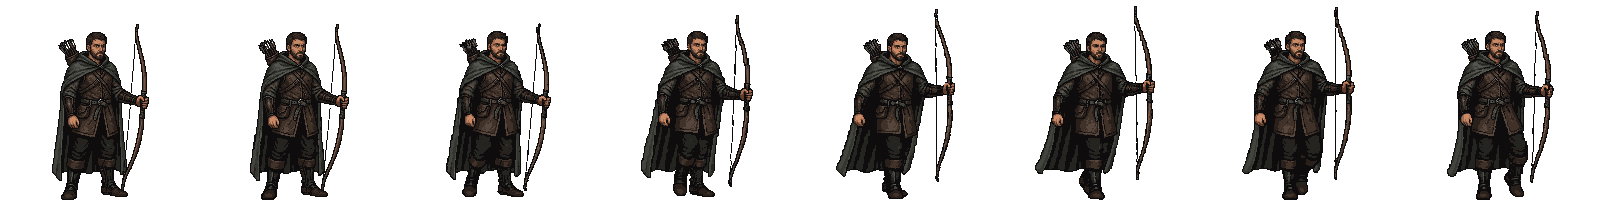
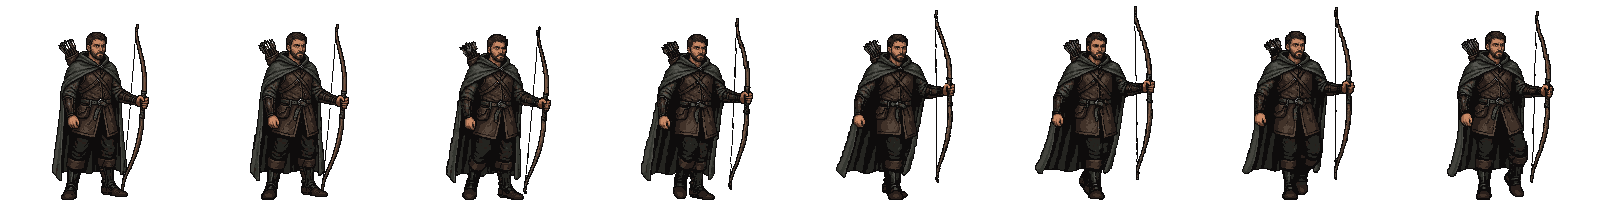
Campeão da invasão limitado a 2× o tamanho normal; pés do Cavaleiro e do Arqueiro assentados no chão em todos os quadros
Claude-Session: https://claude.ai/code/session_01VP3NvU6FBQmiNdnasRkJir

diff --git a/src/monsters.js b/src/monsters.js
@@ -1,3 +1,4 @@
+const CHAMPION_SCALE = Math.min(2.5, 2.0);   // limite pedido: 2,5× o tamanho original
 // Monstros: criação, caminho até o herói (BFS), passos, ataques, dano e morte.
 // (métodos da DungeonScene, separados por assunto)
 Object.assign(DungeonScene.prototype, {
@@ -57,8 +58,10 @@ Object.assign(DungeonScene.prototype, {
       if (i === 0) {
         // campeão da horda: maior, avermelhado, bem mais forte, vale muito mais xp
         m.champion = true; m.hp *= 4; m.maxHp = m.hp; m.dmg *= 1.6;
-        m.spr.setScale((m.data.scale || 1) * 2.7).setTint(0xff9a8a);
+        // no máximo 2,5× o tamanho normal da criatura (antes multiplicava a escala da imagem bruta e passava de 6×)
+        m.baseScale = m.spr.scaleX; m.spr.setScale(m.baseScale * CHAMPION_SCALE).setTint(0xff9a8a);
         m.w = m.spr.displayWidth; m.h = m.spr.displayHeight;
+        m.shadow.setScale(m.w * 0.9 / 64, m.w * 0.3 / 64);
       }
     }
     this.cameras.main.shake(300, 0.004); sfx(this, "boss", 0.5);
